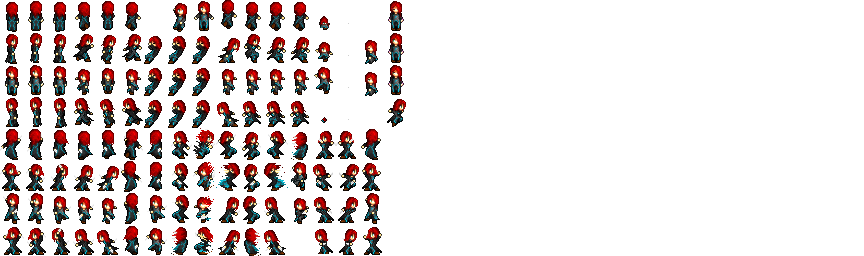
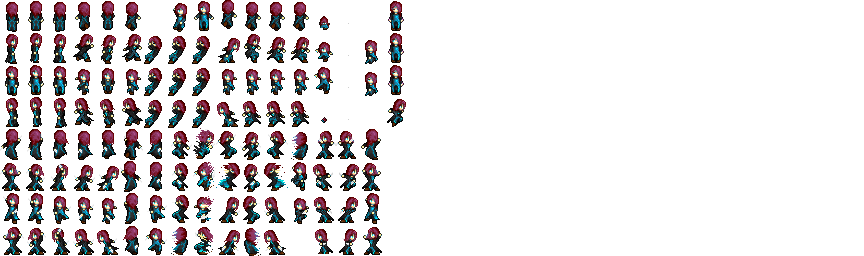
create character b; refactor selecting of character and map

diff --git a/src/scenes/game_scene.ts b/src/scenes/game_scene.ts
@@ -19,30 +19,26 @@ export default class GameScene extends Phaser.Scene {
   }
 
   init(data: { character: string, stage: string }) {
-    console.log('init: ', data.stage);
     this.character = data.character;
     this.stage = data.stage;
   }
 
   preload() {
-    console.log('Preloading Game Scene');
-    this.load.tilemapTiledJSON('map', maps.getMap(this.stage));
-    this.load.spritesheet('playerSprite', characters(this.character), { frameWidth: 24, frameHeight: 32 });
-    this.load.spritesheet('terrainSprite', terrainSpriteSheet, { frameWidth: 16, frameHeight: 16});
+    this.load.tilemapTiledJSON('map_' + this.stage, maps.getMap(this.stage));
+    this.load.spritesheet('playerSprite_' + this.character, characters(this.character), { frameWidth: 24, frameHeight: 32 });
+    this.load.spritesheet('terrainSprite', terrainSpriteSheet, { frameWidth: 16, frameHeight: 16}); 
   }
 
   create() {
-    console.log('Creating Game Scene');
-    this.map = this.makeTilemap('map');
+    this.map = this.makeTilemap('map_' + this.stage);
     this.player = this.spawnPlayer();
     this.physics.add.collider(this.player, this.map.getLayer('ground').tilemapLayer);
     this.endZone = this.spawnEndZone();
-    this.player.on('enter', () => console.log('poop'));
   }
 
   spawnPlayer(): PlayerCharacter {
     const position = maps.getStartingLocation(this.stage);
-    const player = new PlayerCharacter(this, position.x, position.y);
+    const player = new PlayerCharacter(this, position.x, position.y, 'playerSprite_' + this.character);
     this.controller = new PlayerController(this, player);
     return player;
   }
@@ -56,12 +52,11 @@ export default class GameScene extends Phaser.Scene {
       8,
       8
     );
-    console.log(endZone);
     return endZone;
   }
 
   makeTilemap(key: string): Phaser.Tilemaps.Tilemap {
-    const map = this.make.tilemap({key: 'map'});
+    const map = this.make.tilemap({key: 'map_' + this.stage});
     const groundTiles = map.addTilesetImage('mininicular', 'terrainSprite');
     map.createLayer('back', groundTiles, 0, 0);
     map.createLayer('mid', groundTiles, 0, 0);
@@ -84,8 +79,10 @@ export default class GameScene extends Phaser.Scene {
   }
 
   endStage() {
-    console.log("Next scene: ", maps.getNextMapId(this.stage));
-    this.scene.restart({character: 'a', stage: maps.getNextMapId(this.stage)});
+    this.scene.stop();
+    // this.events.off();
+    const next = maps.getNextMapId(this.stage);
+    this.scene.start('GameScene', {character: maps.getCharId(next), stage: next});
   }
 
   update(time: any, delta: any) {

diff --git a/src/playerAnimator/playerAnimator.ts b/src/playerAnimator/playerAnimator.ts
@@ -4,9 +4,11 @@ export default class PlayerAnimator {
 
   player: PlayerCharacter;
   state: string;
+  sprite: string;
 
-  constructor(player: PlayerCharacter) {
+  constructor(player: PlayerCharacter, sprite: string) {
     this.player = player;
+    this.sprite = sprite;
     this.defineAnimations();
     this.state = 'null';
   }
@@ -35,25 +37,25 @@ export default class PlayerAnimator {
   defineAnimations() {
     this.player.anims.create({
       key: 'walk',
-      frames:this.player.anims.generateFrameNumbers('playerSprite', { frames: [39, 40 ]}),
+      frames:this.player.anims.generateFrameNumbers(this.sprite, { frames: [39, 40 ]}),
       frameRate: 8,
       repeat: -1
     });
     this.player.anims.create({
       key: 'idle',
-      frames:this.player.anims.generateFrameNumbers('playerSprite', { frames: [36, 38 ]}),
+      frames:this.player.anims.generateFrameNumbers(this.sprite, { frames: [36, 38 ]}),
       frameRate: 1,
       repeat: -1
     });
     this.player.anims.create({
       key: 'jump',  
-      frames:this.player.anims.generateFrameNumbers('playerSprite', { frames: [45 ]}),
+      frames:this.player.anims.generateFrameNumbers(this.sprite, { frames: [45 ]}),
       frameRate: 8,
       repeat: 1
     });
     this.player.anims.create({
       key: 'fall',  
-      frames:this.player.anims.generateFrameNumbers('playerSprite', { frames: [47 ]}),
+      frames:this.player.anims.generateFrameNumbers(this.sprite, { frames: [47 ]}),
       frameRate: 8,
       repeat: -1
     });

diff --git a/src/playerCharacter/playerCharacter.ts b/src/playerCharacter/playerCharacter.ts
@@ -16,10 +16,10 @@ export default class PlayerCharacter extends Physics.Arcade.Sprite {
   MAX_JUMP_TIME = 300;
   jumpTime: number = 0;
 
-  constructor(scene: Phaser.Scene, x: number, y: number) {
-    super(scene, x, y, 'playerSprite');
+  constructor(scene: Phaser.Scene, x: number, y: number, spriteId: string) {
+    super(scene, x, y, spriteId);
     this.setScale(0.5);
-    this.animator = new PlayerAnimator(this);
+    this.animator = new PlayerAnimator(this, spriteId);
     this.scene.add.existing(this);
     this.scene.physics.add.existing(this);
     this.animate('idle');

diff --git a/src/assets/maps/index.ts b/src/assets/maps/index.ts
@@ -9,12 +9,23 @@ const mapOfMaps = new Map<string, object>(
   ]
 );
 
+const mapOfChars = new Map<string, string>(
+  [
+    ["1A", "a"],
+    ["1B", "b"]
+  ]
+);
+
 const mapList = [
   "1A", "1B"
 ];
 
 const getMap = (id: string) => {
   return mapOfMaps.get(id);
+}
+
+const getCharId = (id: string) => {
+  return mapOfChars.get(id);
 }
 
 const getStartingLocation = (id: string): { x: number, y: number} => {
@@ -41,7 +52,8 @@ const maps = {
   getMap,
   getStartingLocation,
   getEndLocation,
-  getNextMapId
+  getNextMapId,
+  getCharId
 }
 
 export default maps;

diff --git a/src/scenes/main_menu_scene.ts b/src/scenes/main_menu_scene.ts
@@ -22,12 +22,10 @@ export default class MainMenuScene extends Phaser.Scene {
   }
 
   preload() {
-    console.log('Preloading Main Menu Scene');
     this.load.image('play_button', playButtonImg);
   }
 
   create() {
-    console.log('Creating Main Menu Scene');
     const button = this.getPlayButton();
   }
 }

diff --git a/src/config.ts b/src/config.ts
@@ -16,7 +16,7 @@ const config: Phaser.Types.Core.GameConfig = {
     default: 'arcade',
     arcade: {
       gravity: { y: 1200},
-      debug: true,
+      debug: false,
       fixedStep: true,
       fps: 120
     },

diff --git a/src/game.ts b/src/game.ts
@@ -10,6 +10,5 @@ export default class Game {
   }
 
   start() {
-    console.log('Start game.');
   }
 }
